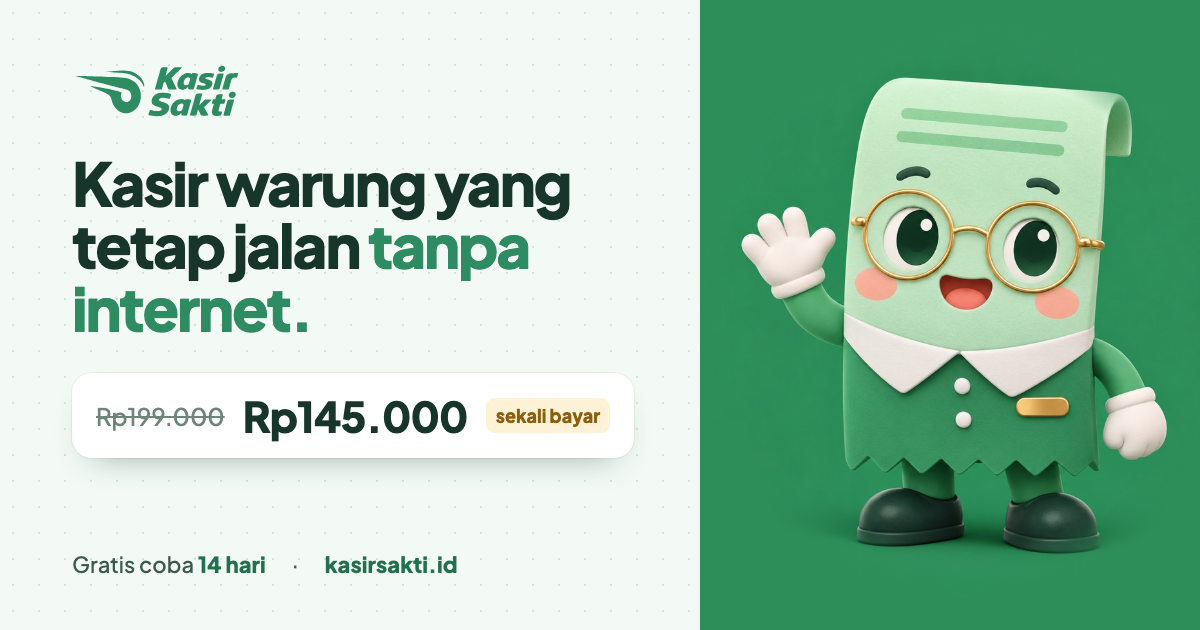
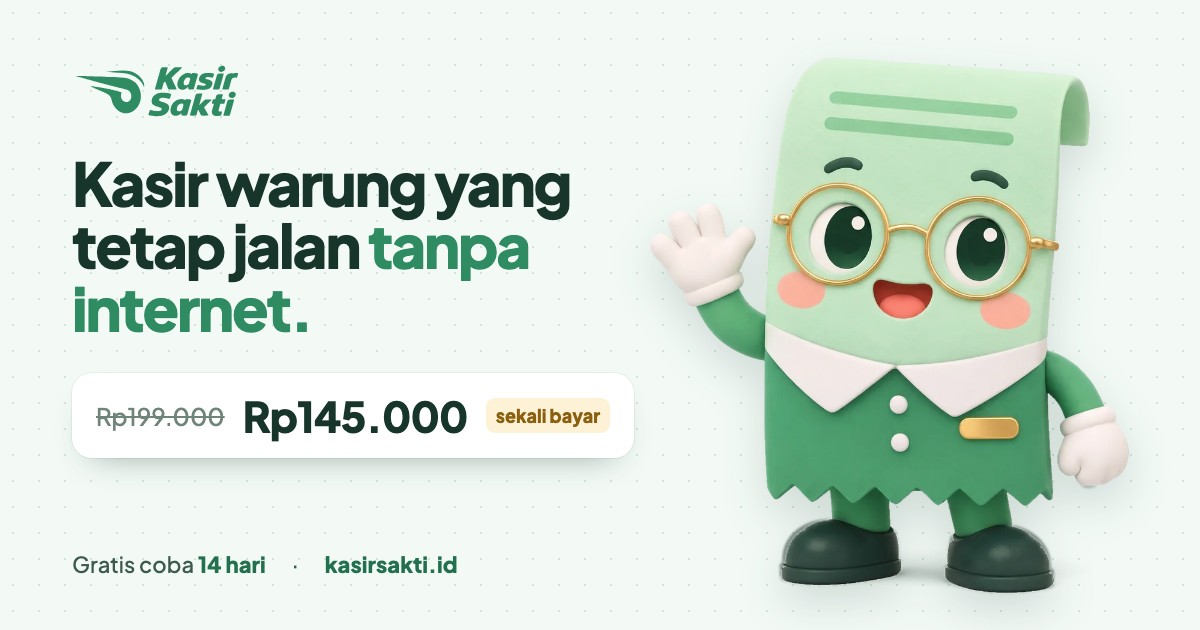
feat(situs): og.png pakai maskot 3D transparan (tanpa panel hijau)

diff --git a/scripts/og/og.html b/scripts/og/og.html
@@ -9,7 +9,7 @@
   * { box-sizing: border-box; margin: 0; }
   body { width: 1200px; height: 630px; overflow: hidden; font-family: Jakarta, sans-serif; color: #17352a;
     background: #f3faf6 radial-gradient(#cfe6d9 1.5px, transparent 1.5px) 0 0 / 26px 26px; position: relative; }
-  .kiri { position: absolute; left: 72px; top: 64px; width: 590px; }
+  .kiri { position: absolute; left: 72px; top: 64px; width: 620px; }
   .logo { height: 54px; }
   h1 { margin-top: 30px; font-size: 60px; line-height: 1.04; font-weight: 800; letter-spacing: -0.035em; }
   h1 span { color: #2e8b62; }
@@ -20,12 +20,9 @@
   .harga i { font-style: normal; font-size: 18px; font-weight: 800; color: #8a5f0e; background: #fdf1d6; padding: 6px 10px; border-radius: 9px; }
   .bawah { position: absolute; left: 72px; bottom: 52px; display: flex; gap: 26px; font-size: 22px; color: #3c5a4e; }
   .bawah b { color: #22704d; }
-  /* Panel maskot 3D baru (latar hijau bawaan render AI ≈ hijau merek; tidak dipotong karena kemeja sewarna latar). */
-  .panel { position: absolute; right: 0; top: 0; bottom: 0; width: 500px; overflow: hidden;
-    background: radial-gradient(circle at 55% 45%, #3a9c68 0, #2d8e5a 62%); }
-  /* Gambar maskot memudar ke warna panel (= latar render AI #2d8e5a) supaya tak ada sambungan. */
-  .panel img { position: absolute; left: -22px; top: 20px; width: 580px; height: 580px;
-    -webkit-mask-image: radial-gradient(closest-side, #000 82%, transparent 100%); mask-image: radial-gradient(closest-side, #000 82%, transparent 100%); }
+  /* Maskot 3D transparan (src/assets/maskot/melambai.webp) langsung di latar terang + bayangan lembut. */
+  .maskot { position: absolute; right: 70px; bottom: 34px; height: 540px;
+    filter: drop-shadow(0 18px 22px rgba(23,53,42,.16)); }
 </style>
 </head>
 <body>
@@ -35,6 +32,6 @@
     <div class="harga"><s>Rp199.000</s><b>Rp145.000</b><i>sekali bayar</i></div>
   </div>
   <div class="bawah"><span>Gratis coba <b>14 hari</b></span><span>·</span><span><b>kasirsakti.id</b></span></div>
-  <div class="panel"><img src="maskot-melambai.jpg" alt=""></div>
+  <img class="maskot" src="../../src/assets/maskot/melambai.webp" alt="">
 </body>
 </html>
